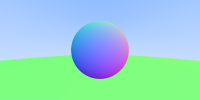
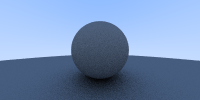
Implement diffuse shaders

diff --git a/src/main.rs b/src/main.rs
@@ -6,7 +6,7 @@ pub mod rendering;
 
 use image::{Rgb, RgbImage};
 use rand::distributions::{Distribution, Uniform};
-use rand::thread_rng;
+use rand::{thread_rng, Rng};
 
 use math::colliders::{Collider, SphereGeometry};
 use math::colors::Color;
@@ -16,24 +16,55 @@ use math::vectors::Vec3;
 use rendering::camera::Camera;
 use rendering::scene::Scene;
 
-fn color(ray: &Ray, scene: &Scene) -> Color {
-    if let Some(hit) = scene.cast(&ray) {
-        0.5f32 * (1f32 + Color::new(hit.normal.x, hit.normal.y, hit.normal.z))
-    } else {
-        let t = 0.5f32 * (ray.direction.y + 1.0f32);
-        Color::lerp(Color::new(1.0, 1.0, 1.0), Color::new(0.5, 0.7, 1.0), t)
+const MIN_TIME: f32 = 0.001f32;
+const MAX_TIME: f32 = 1000f32;
+const MAX_ITERATIONS: u32 = 50;
+
+fn point_in_sphere<T: Rng>(rng: &mut T, between: &Uniform<f32>, num_iterations: &mut f32) -> Vec3 {
+    loop {
+        *num_iterations += 1f32;
+        let random_vec = Vec3 {
+            x: rng.sample(between),
+            y: rng.sample(between),
+            z: rng.sample(between),
+        };
+        let random_vec_adjusted = random_vec * 2.0f32 - Vec3::new(1f32, 1f32, 1f32);
+        if random_vec_adjusted.length_sq() <= 1.0f32 {
+            return random_vec_adjusted;
+        }
     }
+}
+
+fn color<T: Rng>(mut ray: Ray, scene: &Scene, rng: &mut T, between: &Uniform<f32>, num_iterations: &mut f32, num_calls: &mut f32) -> Color {
+    let mut color_absorbed = Color::new(1.0f32, 1.0f32, 1.0f32);
+    for _ in 0..MAX_ITERATIONS {
+        if let Some(hit) = scene.cast(&ray, MIN_TIME, MAX_TIME) {
+            // Compute a bounce location
+            let target = hit.location + hit.normal + point_in_sphere(rng, between, num_iterations);
+            *num_calls += 1f32;
+            // Absorb some light from our ray.
+            color_absorbed *= 0.5f32;
+            ray = Ray::look_at(hit.location, target);
+        } else {
+            // Sky box coloring. Where does the ray hit out at infinity.
+            let t = 0.5f32 * (ray.direction.y + 1.0f32);
+            return color_absorbed
+                * Color::lerp(Color::new(1.0, 1.0, 1.0), Color::new(0.5, 0.7, 1.0), t);
+        }
+    }
+    // If we go for so long that we say we hit nothing, color the point black.
+    Color::zero()
 }
 
 fn create_scene() -> Scene {
     let mut scene = Scene::new();
-    scene.put(Collider::new(SphereGeometry{
+    scene.put(Collider::new(SphereGeometry {
         center: Vec3::new(0f32, 0f32, -1f32),
-        radius: 0.5f32
+        radius: 0.5f32,
     }));
-    scene.put(Collider::new(SphereGeometry{
+    scene.put(Collider::new(SphereGeometry {
         center: Vec3::new(0f32, -100.5f32, -1f32),
-        radius: 100f32
+        radius: 100f32,
     }));
     scene
 }
@@ -50,7 +81,8 @@ fn main() {
     let scene = create_scene();
     let mut rng = thread_rng();
     let between = Uniform::new(0f32, 1f32);
-
+    let mut find_point_iterations_accumulator = 0f32;
+    let mut num_points_in_average = 0f32;
 
     for x in 0..width {
         for y in 0..height {
@@ -59,13 +91,16 @@ fn main() {
                 let u = (x as f32 + between.sample(&mut rng)) / (width as f32);
                 let v = (y as f32 + between.sample(&mut rng)) / (height as f32);
                 let ray = Ray::look_at(camera.location, camera.world_point(u, v));
-                color_accumulator += color(&ray, &scene);
+                color_accumulator += color(ray, &scene, &mut rng, &between, &mut find_point_iterations_accumulator, &mut num_points_in_average);
             }
             color_accumulator /= num_samples as f32;
-
+            color_accumulator.gamma2_correct();
             tmp_image.put_pixel(x, y, Rgb::from(color_accumulator));
         }
     }
+
+    println!("Average Iterations Taken While Finding Point: {:?}", find_point_iterations_accumulator / num_points_in_average);
+    println!("Number of bounces: {:?}", num_points_in_average);
 
     tmp_image
         .save("output/test.png")

diff --git a/src/math/colliders.rs b/src/math/colliders.rs
@@ -6,9 +6,9 @@ pub enum Collider {
 }
 
 impl RayCollidable for Collider {
-    fn hit(&self, ray: &Ray) -> Option<RayHit> {
+    fn hit(&self, ray: &Ray, t_min: f32, t_max: f32) -> Option<RayHit> {
         match self {
-            &Self::Sphere(ref geometry) => geometry.hit(ray),
+            &Self::Sphere(ref geometry) => geometry.hit(ray, t_min, t_max),
         }
     }
 }
@@ -24,17 +24,17 @@ pub struct SphereGeometry {
     pub radius: f32,
 }
 
-fn smaller_non_zero(a: f32, b: f32) -> Option<f32> {
-    match (a < 0f32, b < 0f32) {
-        (true, true) => None,
-        (true, false) => Some(b),
-        (false, true) => Some(a),
-        (false, false) => Some(f32::min(a, b)),
+fn smallest_bounded(a: f32, b: f32, min: f32, max: f32) -> Option<f32> {
+    match (min <= a && a <= max, min <= b && b <= max) {
+        (false, false) => None,
+        (false, true) => Some(b),
+        (true, false) => Some(a),
+        (true, true) => Some(f32::min(a, b)),
     }
 }
 
 impl RayCollidable for SphereGeometry {
-    fn hit(&self, ray: &Ray) -> Option<RayHit> {
+    fn hit(&self, ray: &Ray, t_min: f32, t_max: f32) -> Option<RayHit> {
         let offset = ray.origin - self.center;
         let a = ray.direction.length_sq();
         let b = 2.0f32 * offset.dot(&ray.direction);
@@ -47,7 +47,7 @@ impl RayCollidable for SphereGeometry {
             let hit_time = {
                 let hit_a = (-b + sqrt_descriminant) / (a + a);
                 let hit_b = (-b - sqrt_descriminant) / (a + a);
-                smaller_non_zero(hit_a, hit_b)
+                smallest_bounded(hit_a, hit_b, t_min, t_max)
             };
             if let Some(time) = hit_time {
                 let location = ray.point_at_parameter(time);

diff --git a/src/rendering/scene.rs b/src/rendering/scene.rs
@@ -8,7 +8,7 @@ pub struct Scene {
 impl Scene {
     pub fn new() -> Self {
         Scene {
-            renderables: Vec::new()
+            renderables: Vec::new(),
         }
     }
 
@@ -16,20 +16,13 @@ impl Scene {
         self.renderables.push(collider);
     }
 
-    pub fn cast(&self, ray: &Ray) -> Option<RayHit> {
+    pub fn cast(&self, ray: &Ray, t_min: f32, t_max: f32) -> Option<RayHit> {
         let mut best_hit: Option<RayHit> = None;
+        let mut earliest_time = t_max;
         for collider in &self.renderables {
-            if let Some(hit) = collider.hit(&ray) {
-                best_hit = match best_hit {
-                    Some(old_hit) => {
-                        if old_hit.hit_fraction < hit.hit_fraction {
-                            Some(old_hit)
-                        } else {
-                            Some(hit)
-                        }
-                    }
-                    None => Some(hit),
-                };
+            if let Some(hit) = collider.hit(&ray, t_min, earliest_time) {
+                earliest_time = hit.hit_fraction;
+                best_hit = Some(hit);
             }
         }
         best_hit

diff --git a/src/math/colors.rs b/src/math/colors.rs
@@ -50,6 +50,13 @@ impl Color {
     pub fn new(r: f32, g: f32, b: f32) -> Color {
         Color { r: r, g: g, b: b }
     }
+    pub fn zero() -> Color {
+        Color {
+            r: 0f32,
+            g: 0f32,
+            b: 0f32,
+        }
+    }
     pub fn lerp(left: Color, right: Color, time: f32) -> Color {
         (1f32 - time) * left + time * right
     }
@@ -64,7 +71,7 @@ impl Color {
         Color {
             r: self.r.powf(1f32 / gamma),
             g: self.g.powf(1f32 / gamma),
-            b: self.b.powf(1f32 / gamma)
+            b: self.b.powf(1f32 / gamma),
         }
     }
 }

diff --git a/src/math/ray.rs b/src/math/ray.rs
@@ -25,5 +25,5 @@ pub struct RayHit {
 }
 
 pub trait RayCollidable {
-    fn hit(&self, ray: &Ray) -> Option<RayHit>;
+    fn hit(&self, ray: &Ray, t_min: f32, t_max: f32) -> Option<RayHit>;
 }
